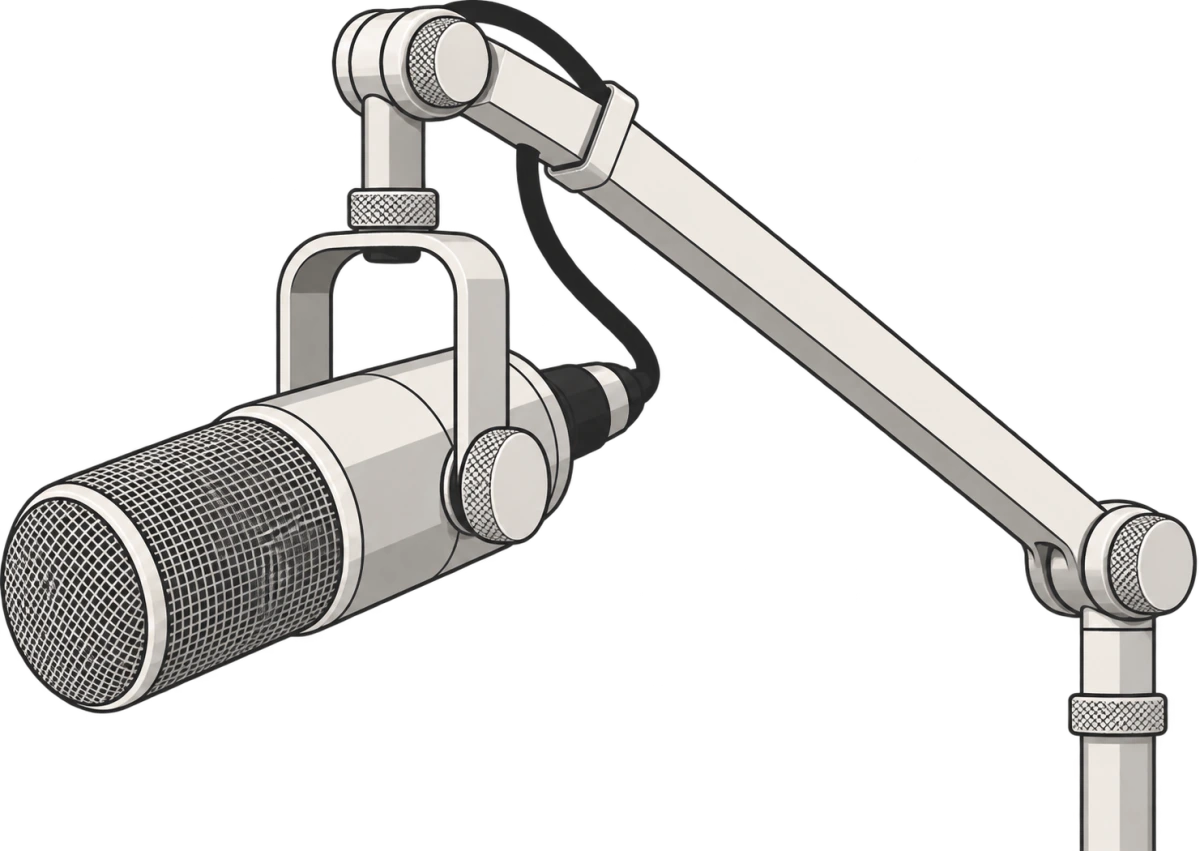
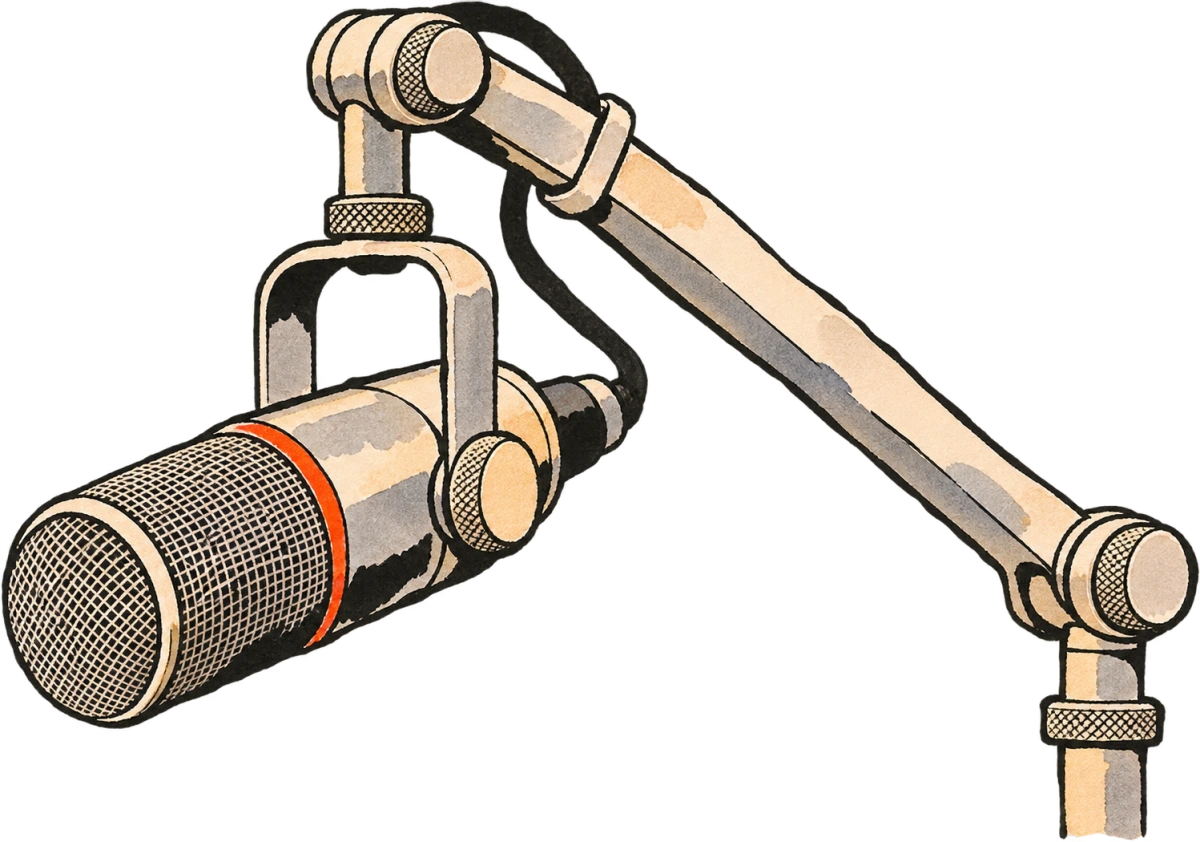
Site : objets de l'accueil redessinés à l'encre et à l'aquarelle, comme la réunion

diff --git a/index.html b/index.html
@@ -153,10 +153,10 @@
 
   <section class="follow">
     <ul class="benefits">
-        <li class="o-jack text-right"><div><span>Une seule installation, puis plus rien à régler</span><p>Une ligne à copier, deux autorisations, et c'est tout. Ensuite, il démarre avec votre Mac et se fait oublier.</p></div><img src="img/benefices/jack.webp" width="1200" height="236" loading="lazy" alt="Une fiche jack dessinée, qui entre par la gauche et pointe vers le texte."></li>
-        <li class="o-micro"><div><span>Vous parlez, tout est conservé, aucun lien à cliquer</span><p>Zoom, Teams, Meet, FaceTime, WhatsApp, votre téléphone, vos réunions et vos notes vocales&nbsp;: tout est enregistré dès que ça commence, et transcrit dès que ça se termine.</p></div><img src="img/benefices/micro.webp" width="1200" height="851" loading="lazy" alt="Un micro de radio dessiné, au design épuré, sur son bras articulé aux molettes moletées."></li>
-        <li class="o-telephone text-right"><div><span>Raccrochez&nbsp;: votre assistant est déjà au courant</span><p>Demandez ce qui a été promis, décidé ou oublié&nbsp;: Claude, Codex et les autres assistants lisent vos appels et vous répondent, citations à l'appui. Rien à copier-coller.</p></div><img src="img/benefices/telephone.webp" width="1100" height="660" loading="lazy" alt="Le haut d'un téléphone dessiné, ouvert sur Claude, une question en cours."></li>
-        <li class="o-ordinateur"><div><span>L'audio ne quitte jamais votre Mac</span><p>La transcription se fait sur place, sans compte ni serveur. Votre assistant ne lit que ce dont il a besoin pour vous répondre.</p></div><img src="img/benefices/ordinateur.webp" width="1200" height="789" loading="lazy" alt="Un ordinateur des années 80 dessiné, une liste d'appels à l'écran."></li>
+        <li class="o-jack text-right"><div><span>Une seule installation, puis plus rien à régler</span><p>Une ligne à copier, deux autorisations, et c'est tout. Ensuite, il démarre avec votre Mac et se fait oublier.</p></div><img src="img/benefices/jack.webp?v=2" width="1200" height="198" loading="lazy" alt="Une fiche jack dessinée à l'encre et à l'aquarelle, qui entre par la gauche et pointe vers le texte."></li>
+        <li class="o-micro"><div><span>Vous parlez, tout est conservé, aucun lien à cliquer</span><p>Zoom, Teams, Meet, FaceTime, WhatsApp, votre téléphone, vos réunions et vos notes vocales&nbsp;: tout est enregistré dès que ça commence, et transcrit dès que ça se termine.</p></div><img src="img/benefices/micro.webp?v=2" width="1200" height="842" loading="lazy" alt="Un micro de radio dessiné à l'encre et à l'aquarelle, sur son bras articulé aux molettes moletées."></li>
+        <li class="o-telephone text-right"><div><span>Raccrochez&nbsp;: votre assistant est déjà au courant</span><p>Demandez ce qui a été promis, décidé ou oublié&nbsp;: Claude, Codex et les autres assistants lisent vos appels et vous répondent, citations à l'appui. Rien à copier-coller.</p></div><img src="img/benefices/telephone.webp?v=5" width="1099" height="660" loading="lazy" alt="Le haut d'un téléphone dessiné à l'encre et à l'aquarelle, ouvert sur Claude, une question en cours."></li>
+        <li class="o-ordinateur"><div><span>L'audio ne quitte jamais votre Mac</span><p>La transcription se fait sur place, sans compte ni serveur. Votre assistant ne lit que ce dont il a besoin pour vous répondre.</p></div><img src="img/benefices/ordinateur.webp?v=2" width="1200" height="788" loading="lazy" alt="Un ordinateur des années 80 dessiné à l'encre et à l'aquarelle, une liste d'appels à l'écran."></li>
     </ul>
     <p class="more"><a href="fonctionnalites/">Toutes les fonctionnalités</a></p>
   </section>
